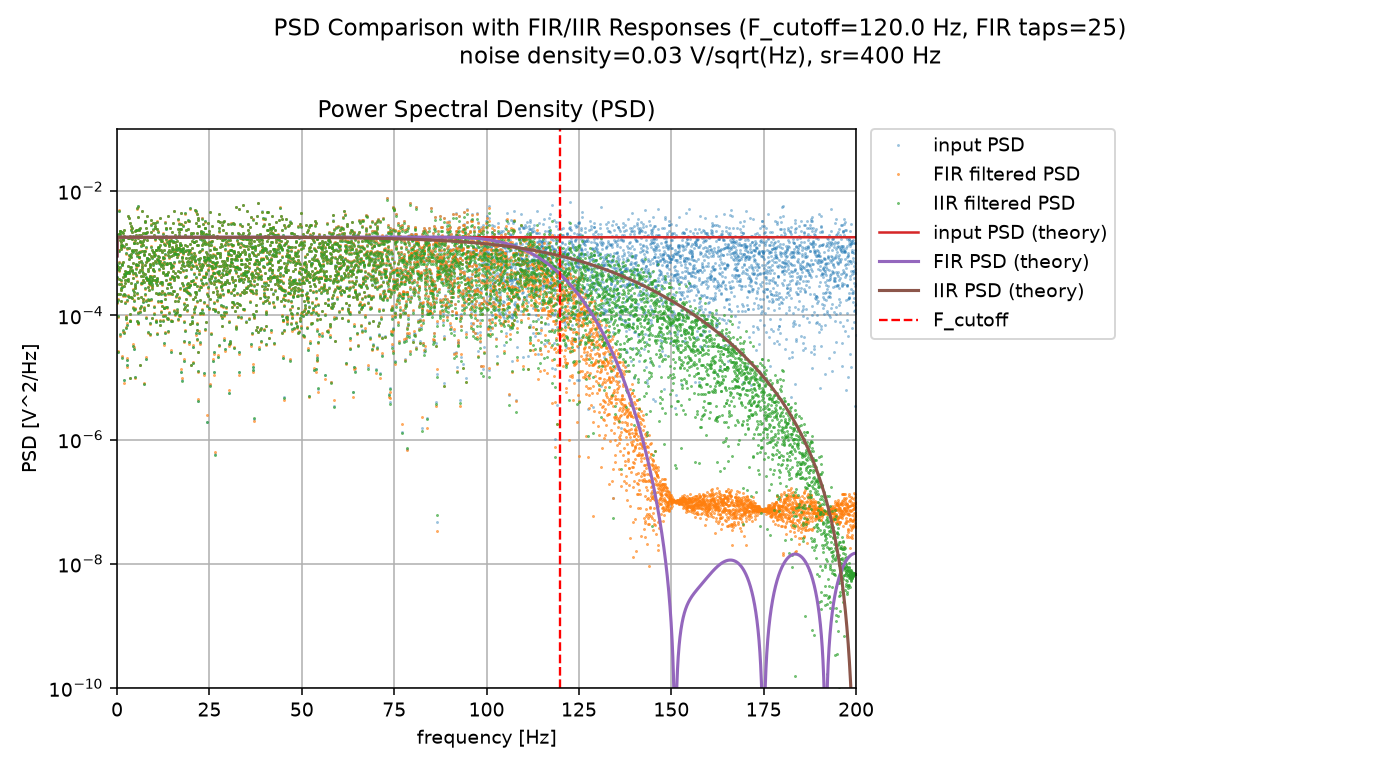
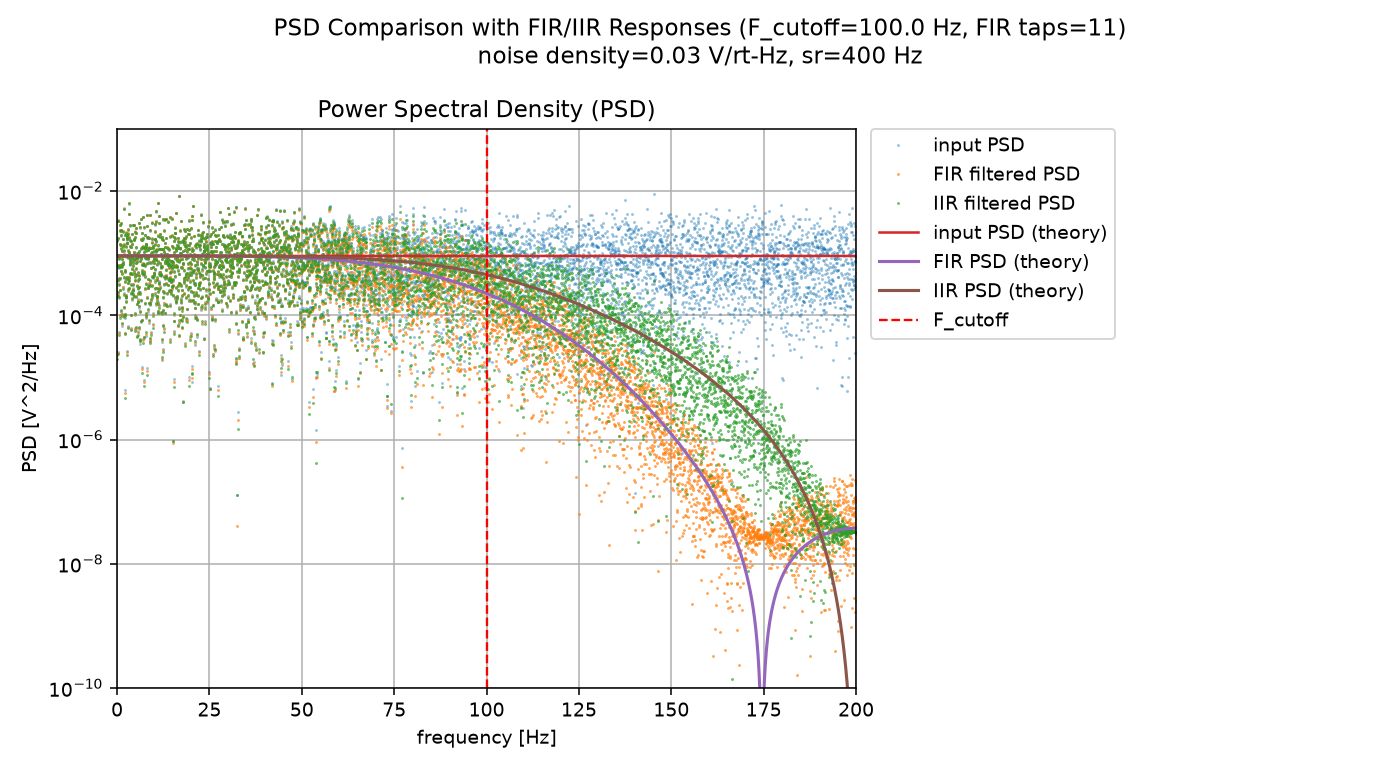
fix LPF calculation

diff --git a/misc/whitenoise.py b/misc/whitenoise.py
@@ -15,12 +15,12 @@ def design_fir_lpf(sr: float, f_cutoff: float, num_taps: int = 255) -> np.ndarra
 	h_ideal = 2.0 * fc * np.sinc(2.0 * fc * (n - center))
 	window = np.hamming(num_taps)
 	h = h_ideal * window
-	h /= np.sum(h)
+	#h /= np.sum(h)
 	return h
 
 
 def psd_realin(x: np.ndarray, sr: float) -> tuple[np.ndarray, np.ndarray]:
-	"""Return one-sided PSD estimate from FFT."""
+	"""Return PSD estimate from FFT."""
 	n = len(x)
 	x_fft = np.fft.rfft(x)
 	psd = (np.abs(x_fft) ** 2) / (n * sr)
@@ -61,13 +61,25 @@ def apply_iir_filter(x: np.ndarray, b: np.ndarray, a: np.ndarray) -> np.ndarray:
 	return y
 
 
-def iir_freq_response(b: np.ndarray, a: np.ndarray, freq: np.ndarray, sr: float) -> np.ndarray:
-	"""Evaluate IIR frequency response on the provided frequency grid."""
+def filter_freq_response(b: np.ndarray, a: np.ndarray, freq: np.ndarray, sr: float) -> np.ndarray:
+	"""Evaluate digital filter frequency response for arbitrary-length b and a."""
+	b = np.asarray(b, dtype=float)
+	a = np.asarray(a, dtype=float)
+	if b.ndim != 1 or a.ndim != 1:
+		raise ValueError("b and a must be 1-D arrays")
+	if len(a) == 0 or len(b) == 0:
+		raise ValueError("b and a must be non-empty")
+
 	w = 2.0 * np.pi * freq / sr
-	z1 = np.exp(-1j * w)
-	z2 = z1 * z1
-	num = b[0] + b[1] * z1 + b[2] * z2
-	den = a[0] + a[1] * z1 + a[2] * z2
+	z = np.exp(-1j * w)
+	num = np.zeros_like(z, dtype=complex)
+	den = np.zeros_like(z, dtype=complex)
+
+	for k, bk in enumerate(b):
+		num += bk * (z ** k)
+	for k, ak in enumerate(a):
+		den += ak * (z ** k)
+
 	return num / den
 
 
@@ -75,16 +87,19 @@ def iir_freq_response(b: np.ndarray, a: np.ndarray, freq: np.ndarray, sr: float)
 sig_noise = 0.03
 time_length = 30.0  # [s]
 sr = 400  # [Hz]
-f_cutoff = sr * 0.3
-num_taps = 25
+f_cutoff = sr * 0.25
+num_taps = 11
 
 sample_num = int(sr * time_length)
 t_sample = 1.0 / sr
 t_axis = np.arange(sample_num) / sr
 
+# Generate white noise and apply FIR/IIR filters.
 x_td = sig_noise / np.sqrt(t_sample) * np.random.normal(0.0, 1.0, sample_num)
+# FIR low-pass filter design and application.
 h_fir = design_fir_lpf(sr=sr, f_cutoff=f_cutoff, num_taps=num_taps)
 x_td_lpf = np.convolve(x_td, h_fir, mode="same")
+# IIR low-pass filter design and application.
 b_iir, a_iir = design_iir_butterworth_lpf(sr=sr, f_cutoff=f_cutoff)
 x_td_iir = apply_iir_filter(x_td, b_iir, a_iir)
 
@@ -93,12 +108,12 @@ _, psd_fir = psd_realin(x_td_lpf, sr)
 _, psd_iir = psd_realin(x_td_iir, sr)
 
 # One-sided theoretical white-noise PSD based on noise density.
-psd_in_theory = np.full_like(freq, 2.0 * sig_noise**2)
-psd_in_theory[0] = sig_noise**2
+psd_in_theory = np.full_like(freq, sig_noise**2)
+#psd_in_theory[0] = sig_noise**2
 
-fir_h = np.fft.rfft(h_fir, n=sample_num)
-iir_h = iir_freq_response(b_iir, a_iir, freq, sr)
-psd_fir_theory = psd_in_theory * np.abs(fir_h) ** 2
+fir_h = filter_freq_response(h_fir, np.array([1.0]), freq, sr)
+iir_h = filter_freq_response(b_iir, a_iir, freq, sr)
+psd_fir_theory = psd_in_theory * (np.abs(fir_h) ** 2)
 psd_iir_theory = psd_in_theory * np.abs(iir_h) ** 2
 
 print(f"sample_num={sample_num}")
@@ -110,8 +125,8 @@ print(f"IIR filtered std={np.std(x_td_iir):.6f}")
 # Figure 1: time-domain signals + input PSD only.
 fig1, axs1 = plt.subplots(2, 1, figsize=(10, 7))
 fig1.suptitle(
-	f"White Noise Time Domain + Input PSD (F_cutoff={f_cutoff:.1f} Hz, FIR taps={num_taps})\n"
-	f"noise density={sig_noise} V/sqrt(Hz), sr={sr} Hz"
+	f"White Noise Time Domain and Frequency Domain\n"
+	f"noise density={sig_noise} V/rt-Hz, sr={sr} Hz, T={time_length:.1f} s"
 )
 
 ax = axs1[0]
@@ -144,7 +159,7 @@ fig1.savefig("whitenoise_time_and_input_psd.png", dpi=140)
 fig2, ax_psd = plt.subplots(1, 1, figsize=(10, 5.5))
 fig2.suptitle(
 	f"PSD Comparison with FIR/IIR Responses (F_cutoff={f_cutoff:.1f} Hz, FIR taps={num_taps})\n"
-	f"noise density={sig_noise} V/sqrt(Hz), sr={sr} Hz"
+	f"noise density={sig_noise} V/rt-Hz, sr={sr} Hz"
 )
 
 ax_psd.set_title("Power Spectral Density (PSD)")
@@ -188,3 +203,19 @@ ax_psd.legend(
 
 fig2.tight_layout(rect=[0.0, 0.0, 0.82, 1.0])
 fig2.savefig("whitenoise_psd_fir_iir_response.png", dpi=140)
+
+# Figure 3: FIR coefficients (impulse response).
+fig3, ax_imp = plt.subplots(1, 1, figsize=(8, 4.5))
+fig3.suptitle(
+	f"FIR Impulse Response (num_taps={num_taps}, F_cutoff={f_cutoff:.1f} Hz, sr={sr} Hz)"
+)
+
+tap_idx = np.arange(len(h_fir))
+ax_imp.set_title("FIR filter coefficients")
+ax_imp.stem(tap_idx, h_fir, linefmt="C0-", markerfmt="C0o", basefmt="k-")
+ax_imp.set_xlabel("tap index")
+ax_imp.set_ylabel("coefficient")
+ax_imp.grid(True)
+
+fig3.tight_layout()
+fig3.savefig("fir_impulse_response.png", dpi=140)

diff --git a/doc/white_noise.md b/doc/white_noise.md
@@ -31,29 +31,15 @@ $$
 
 ### Power Spectrum and Noise Density
 
-Here is the plot. You can verify that the result is independet from the sampling rate, using python script. Spectrum density should be always $\sigma^2$ with any sampling rate, in the unit of valtage square per Hertz.
+Here is a example calculation of sensor white noise. This simulation takes sampling rate, noise density and time length as input. You can verify that the result is independet from the sampling rate, using python script. Spectrum density should be always $\sigma^2$ with any sampling rate, in the unit of valtage square per Hertz.
 
 ![image info](./pictures/whitenoise_time_and_input_psd.png)
 
 
-### Verification
-
-We can say the independency from sampling rate is in another way.
-Power or energy in one second must be equal if it is calculated in time domain or in frequency domain.
-In time domain,
-
-$$
-\sum_{i=1}^{F_s} x_i^2\Delta t = \mathrm{Var}[x_i]\frac{1}{F_s} = \sigma^2F_s
-$$
-
-Frequecy domain, since it is constant as $\sigma^2$ in the limited band width of $F_s$ Hz, the power is $\sigma^2 Fs$.
-This should be calculated from DFT directly.
-
-$$
-\sum_{m=1}^{M} X_m^2\frac{F_s}{M} = M\sum_{i=1}^{N} x_i^2\frac{F_s}{M}
-$$
 
 ### Filtering
+
+Usually sensor data is sampled periodically after passed filtering for anti-aliasing and noise reduction. Here we simulate the case that our simulated white noise is filterd with IIR and FIR low-pass filter. You can see that power density at high frequency is reduced from original noise with both filters.
 
 ![image info](./pictures/whitenoise_psd_fir_iir.png)
 
